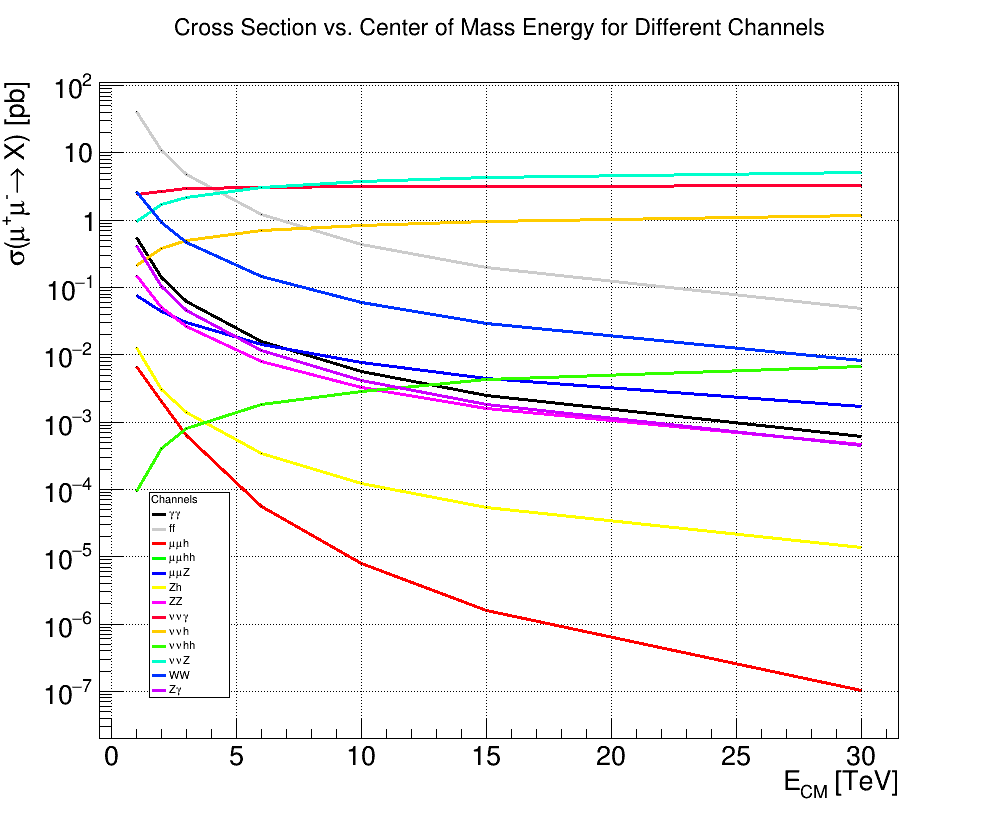
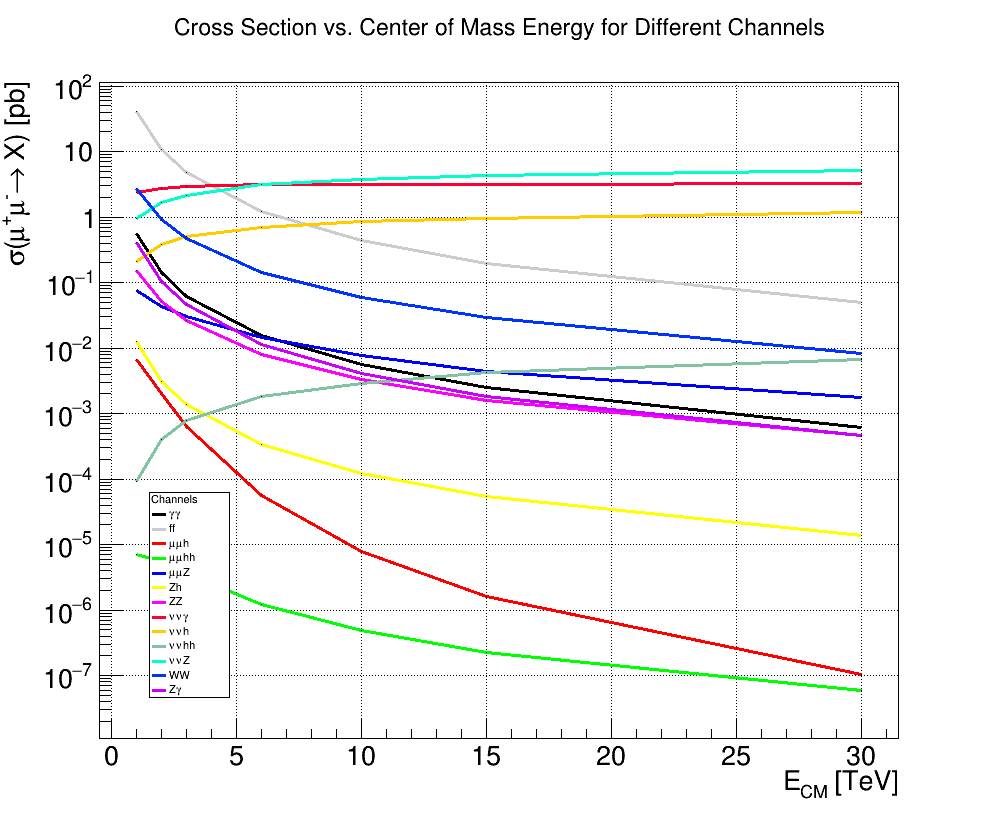
Update Cs_Ecm macro

diff --git a/Delphes/src/Cs_Ecm.C b/Delphes/src/Cs_Ecm.C
@@ -228,7 +228,7 @@ void Cs_Ecm(const char *outputFile){
      zz->SetLineColor(616);
      vva->SetLineColor(900);
      vvh->SetLineColor(800);
-     vvhh->SetLineColor(820);
+     vvhh->SetLineColor(30);
      vvz->SetLineColor(840);
      ww->SetLineColor(860);
      za->SetLineColor(880);
@@ -251,7 +251,7 @@ void Cs_Ecm(const char *outputFile){
      mg->Add(aa);
      mg->Add(ff);
      mg->Add(mmh);
-     mg->Add(mmh);
+     mg->Add(mmhh);
      mg->Add(mmz);
      mg->Add(zh);
      mg->Add(zz);
